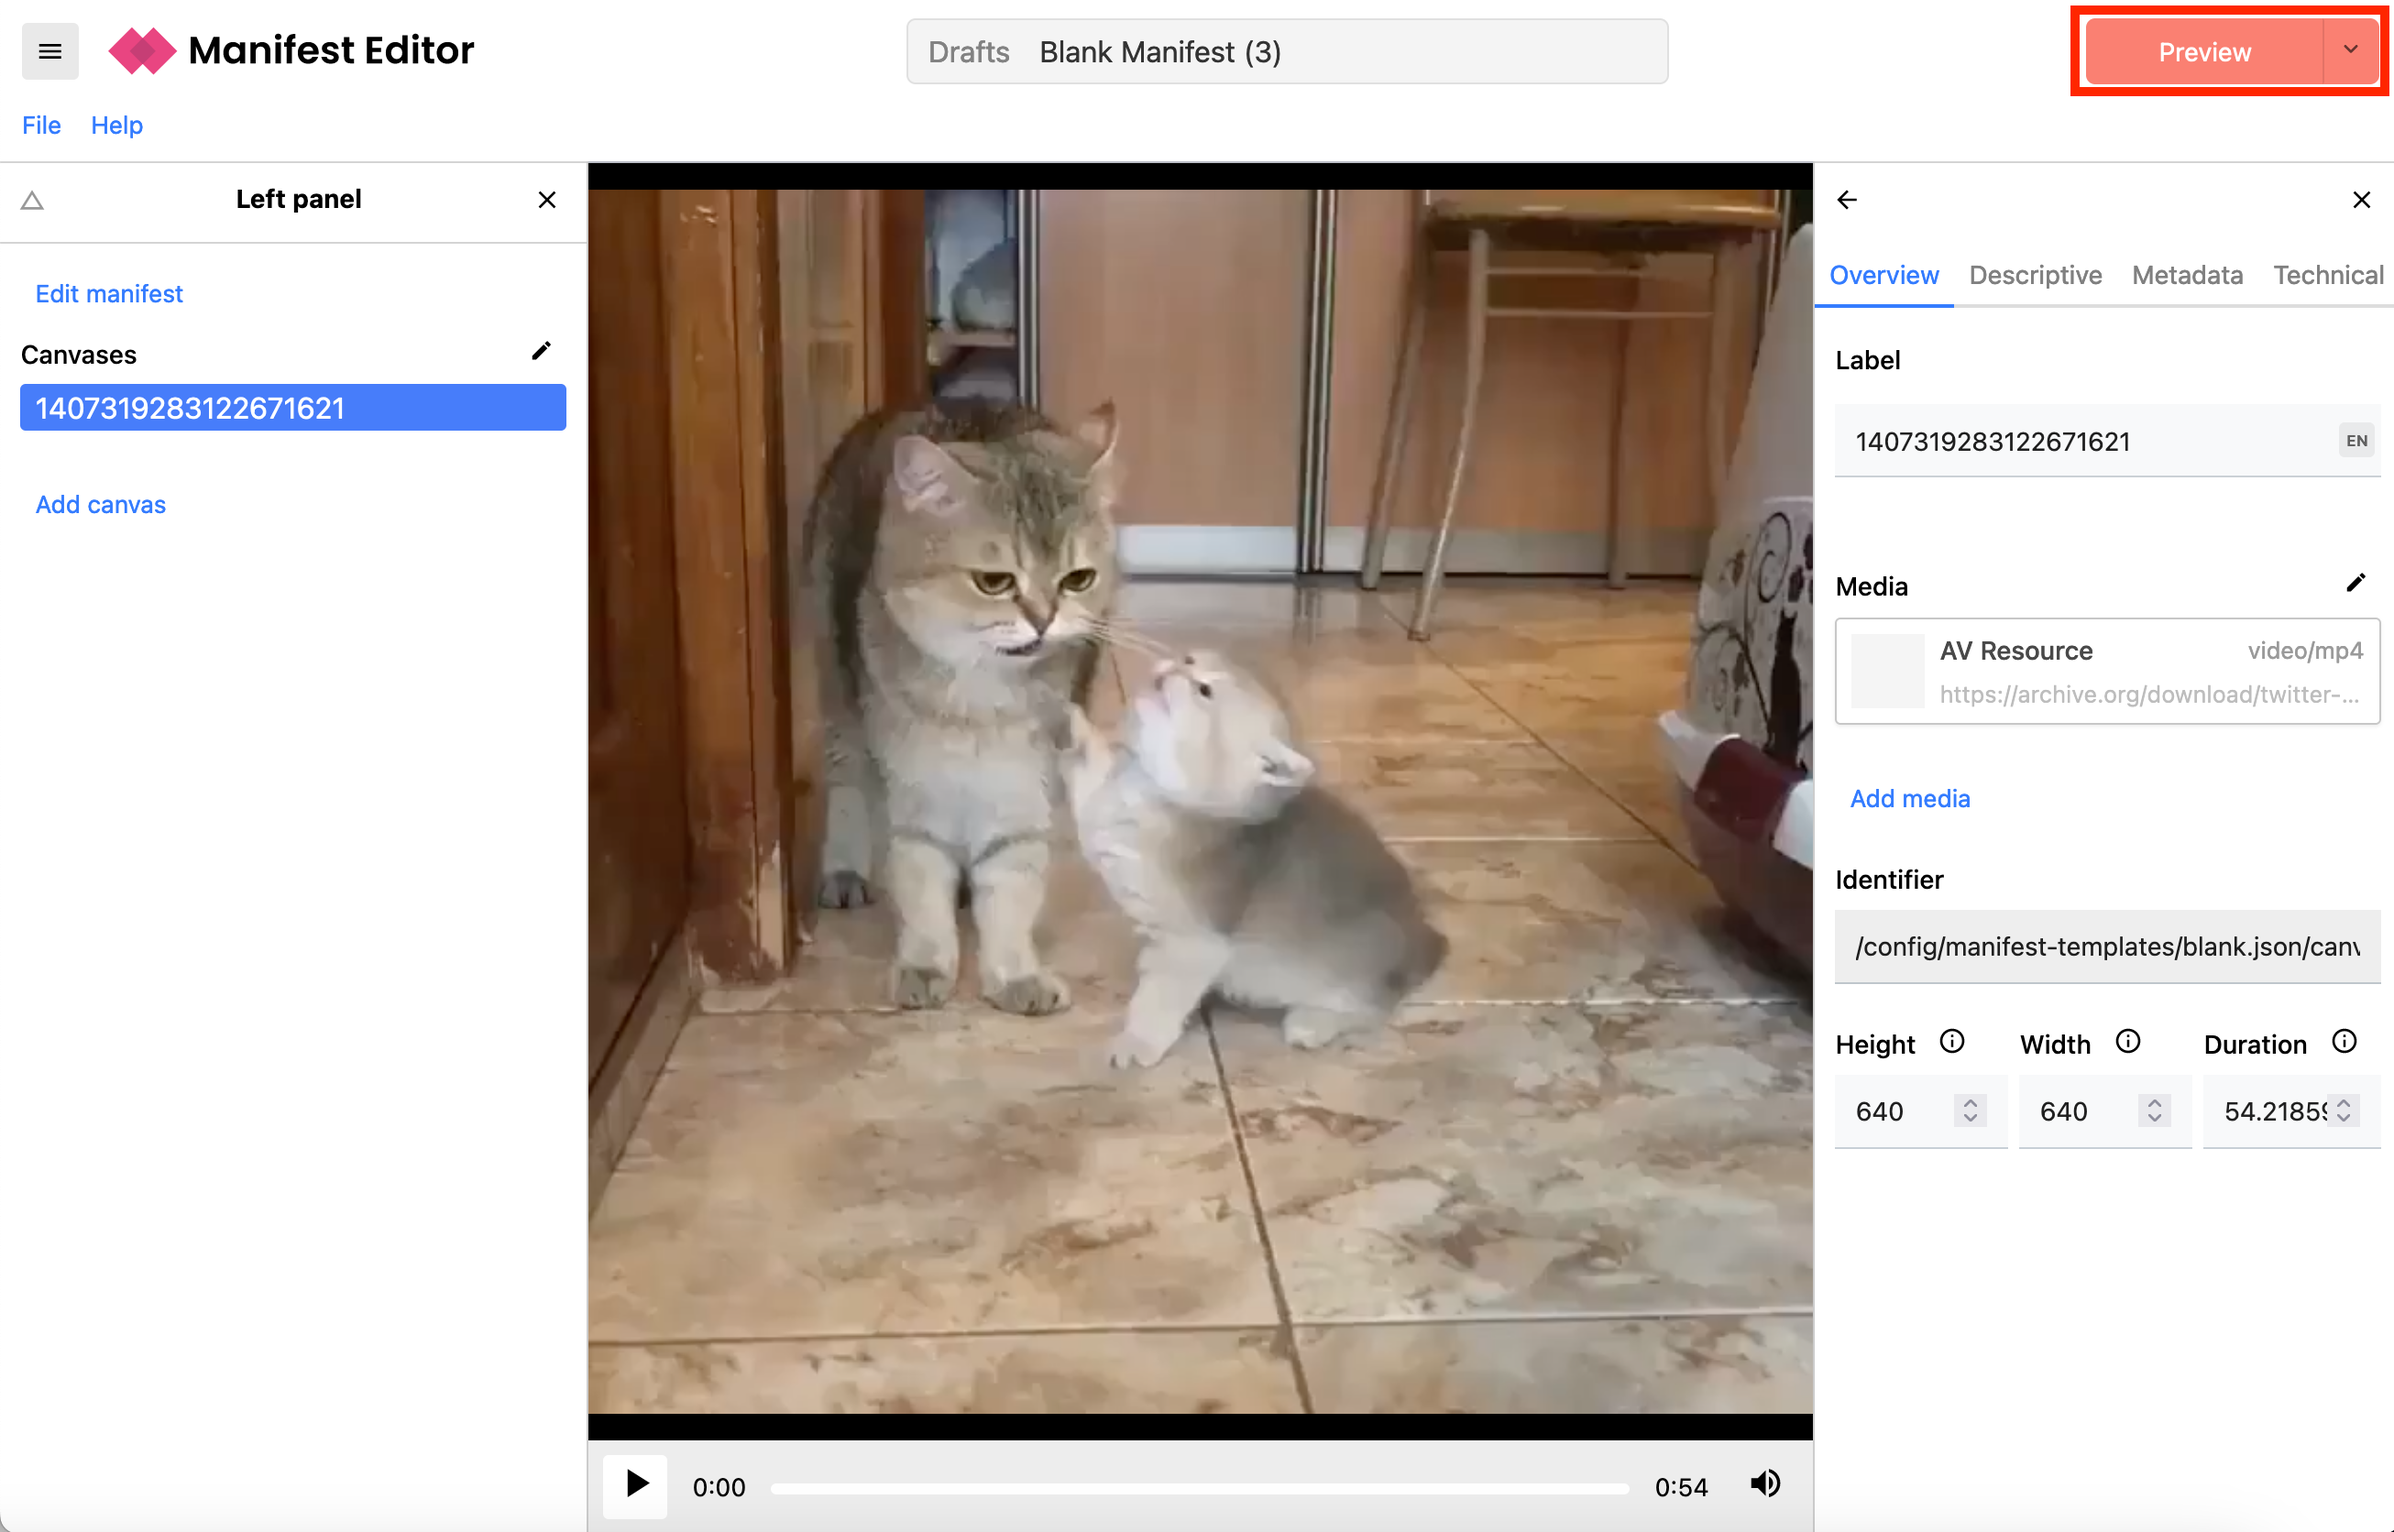
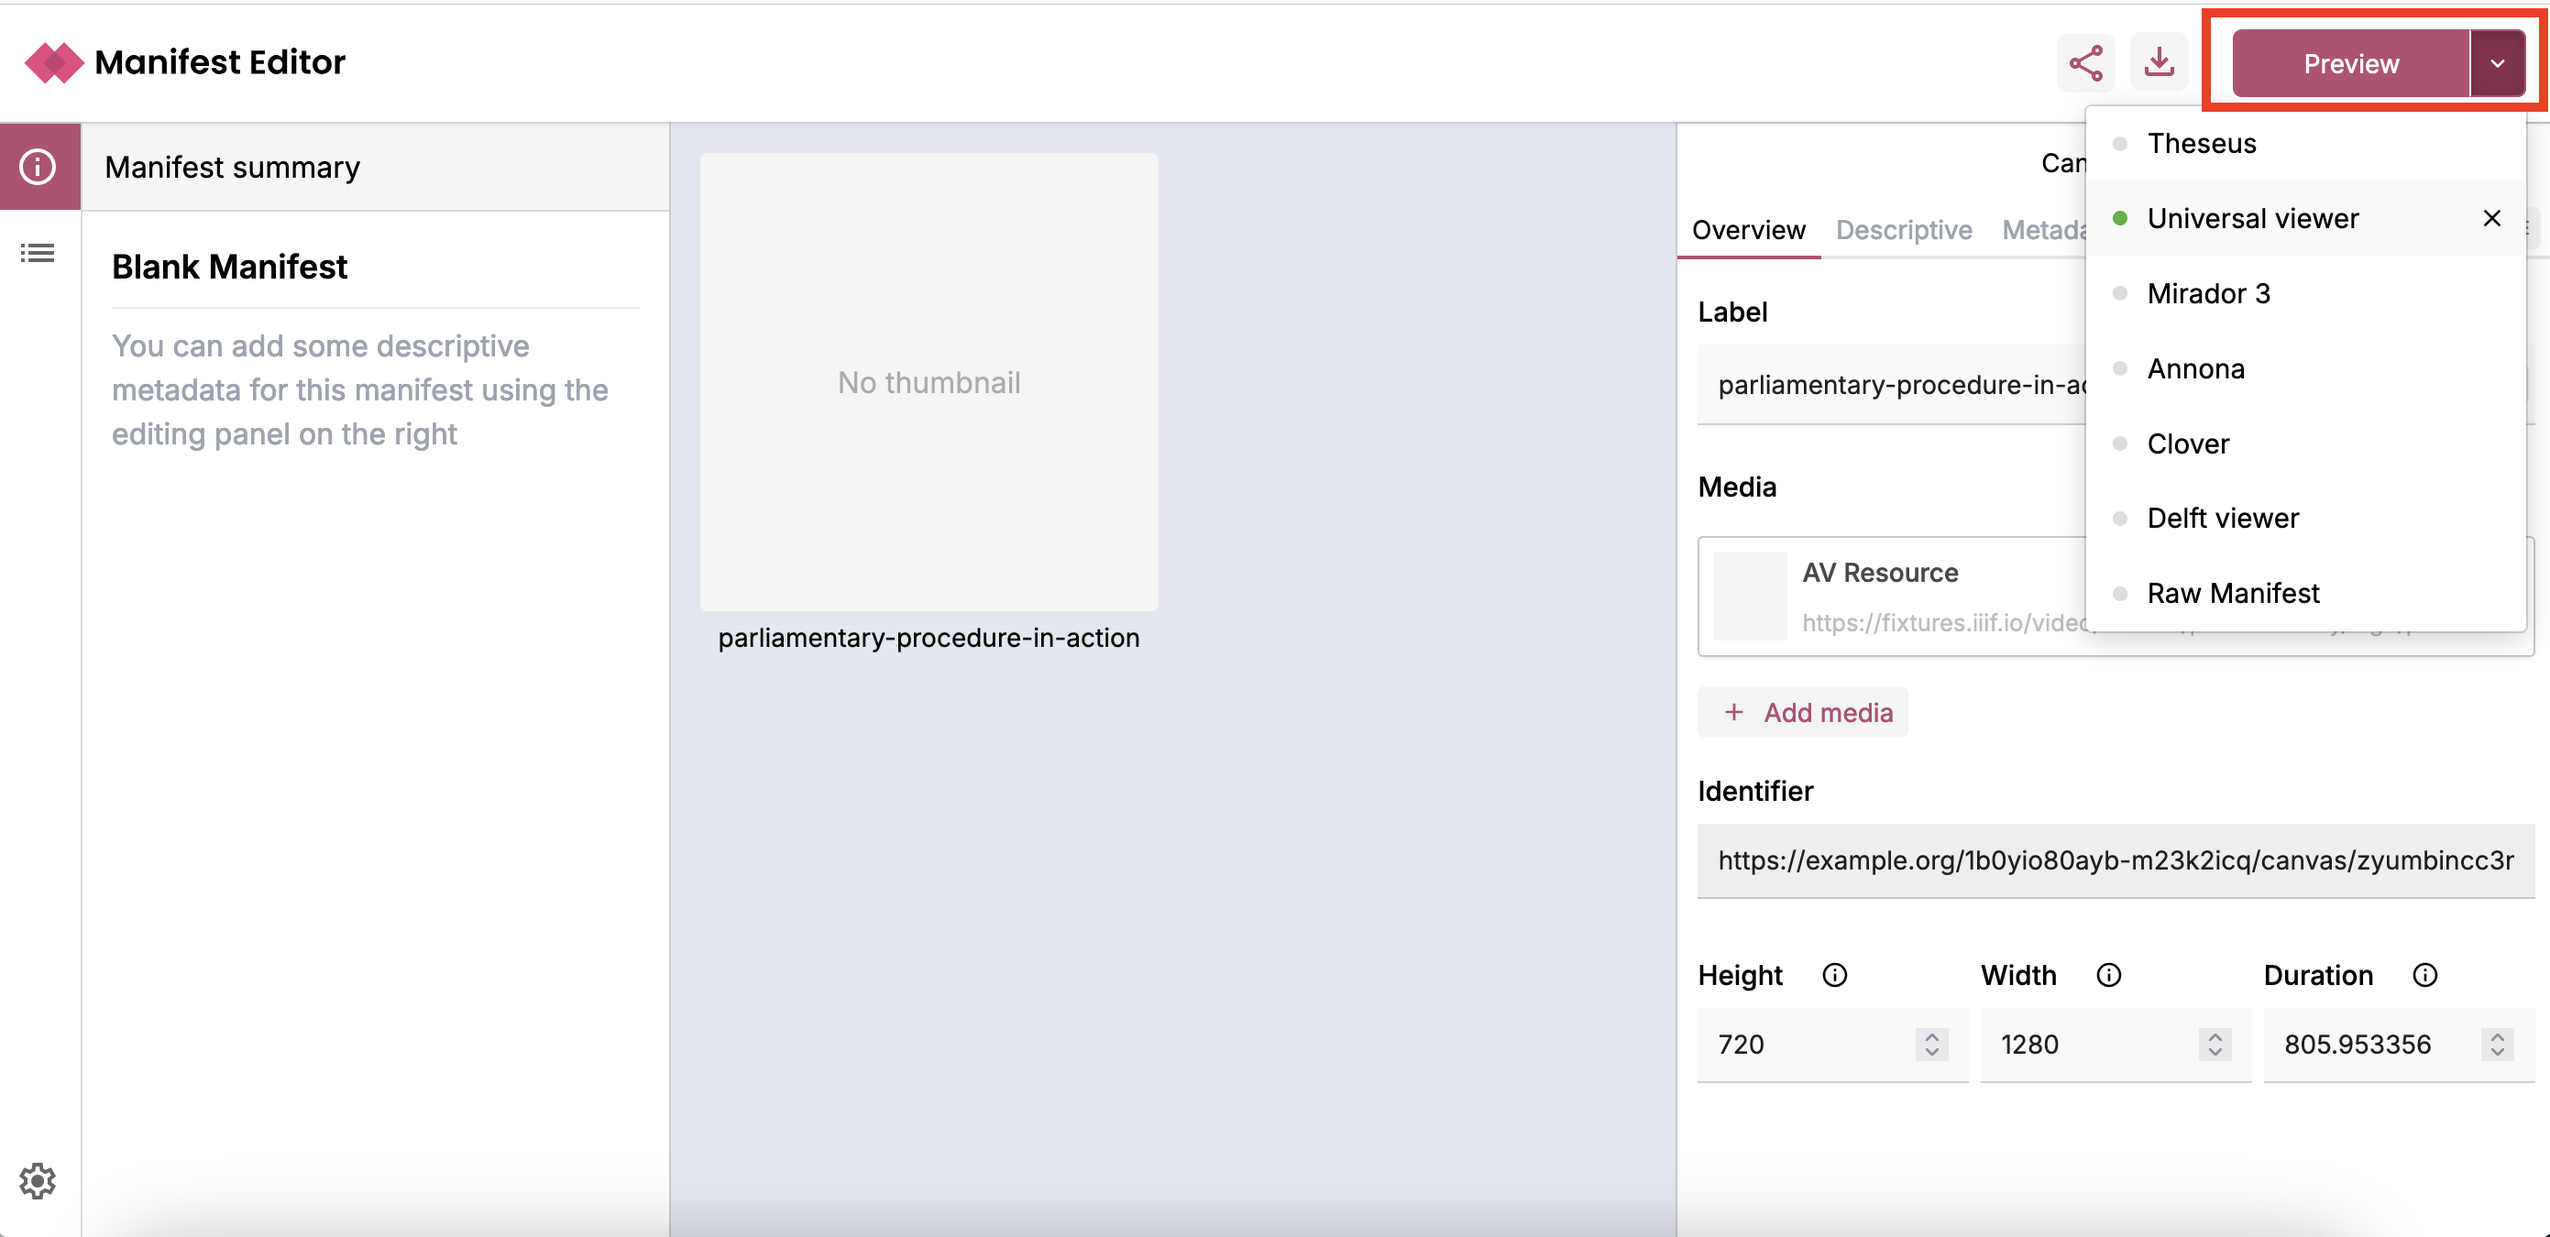
Updating the Manifest editor screen shots

diff --git a/iiif-online-workshop/day-three/digirati-editor/Add_video_manifest.md b/iiif-online-workshop/day-three/digirati-editor/Add_video_manifest.md
@@ -20,32 +20,34 @@ For this item I get the following URL:
 
 https://archive.org/download/twitter-1407319283122671621/1407319283122671621.mp4
 
+or use this image from the IIIF fixtures:
+
+https://fixtures.iiif.io/video/indiana/parliamentary/high/parliamentary-procedure-in-action.mp4
+
+Other videos are available on the [iiif-fixtures](https://fixtures.iiif.io) site.
+
 Now we will create the Manifest for this video.
 
 ## Creating a Video Manifest
 
-If you navigate to the Digirati Manifest Editor:
+Navigate to the editor at https://manifest-editor.digirati.services/ and click on the Create new Manifest option at the top of the page:
 
-https://manifest-editor.digirati.services/
+![Manifest Editor Splash Screen](imgs/CreateEmptyManifest.png)
 
-and either select new Manifest or if you are already editing a manifest select  **File** -> **New** -> **Blank Manifest**:
+Now select "Start adding content" then the Video Annotation.
 
-![new manifest](imgs/new-manifest.png)
+![Add video annotation](imgs/video-service-option.png)
 
-Now select add canvas and then the Video Annotation.
-
-![Add video annotation](imgs/add-video-canvas.png)
-
-Paste in the link to your video and scroll to the bottom of the right panel and click Add Video.
+Paste in the link to your video and scroll to the bottom of the panel and click Add Video.
 
 ![Add video](imgs/add-video.png)
 
-Now we can view the Manifest in the Universal Viewer by clicking the Preview button:
+Now we can view the Manifest in the Universal Viewer by clicking the Preview button. If you select the down triangle next to the Preview button you can choose a viewer like the Universal Viewer:
 
 ![Preview](imgs/preview-video.png)
 
-Once you click the preview button you should see the following in the Univesral Viewer:
+Once you click the preview button you should see the following in the Universal Viewer:
 
 ![Video in UV](imgs/uv.png)
 
-***Note***: this video didn't work for me in Mirador due to the file format not being supported. 
+***Note***: the Internet Archive video doesn't work in Mirador due to the file format not being supported. 
